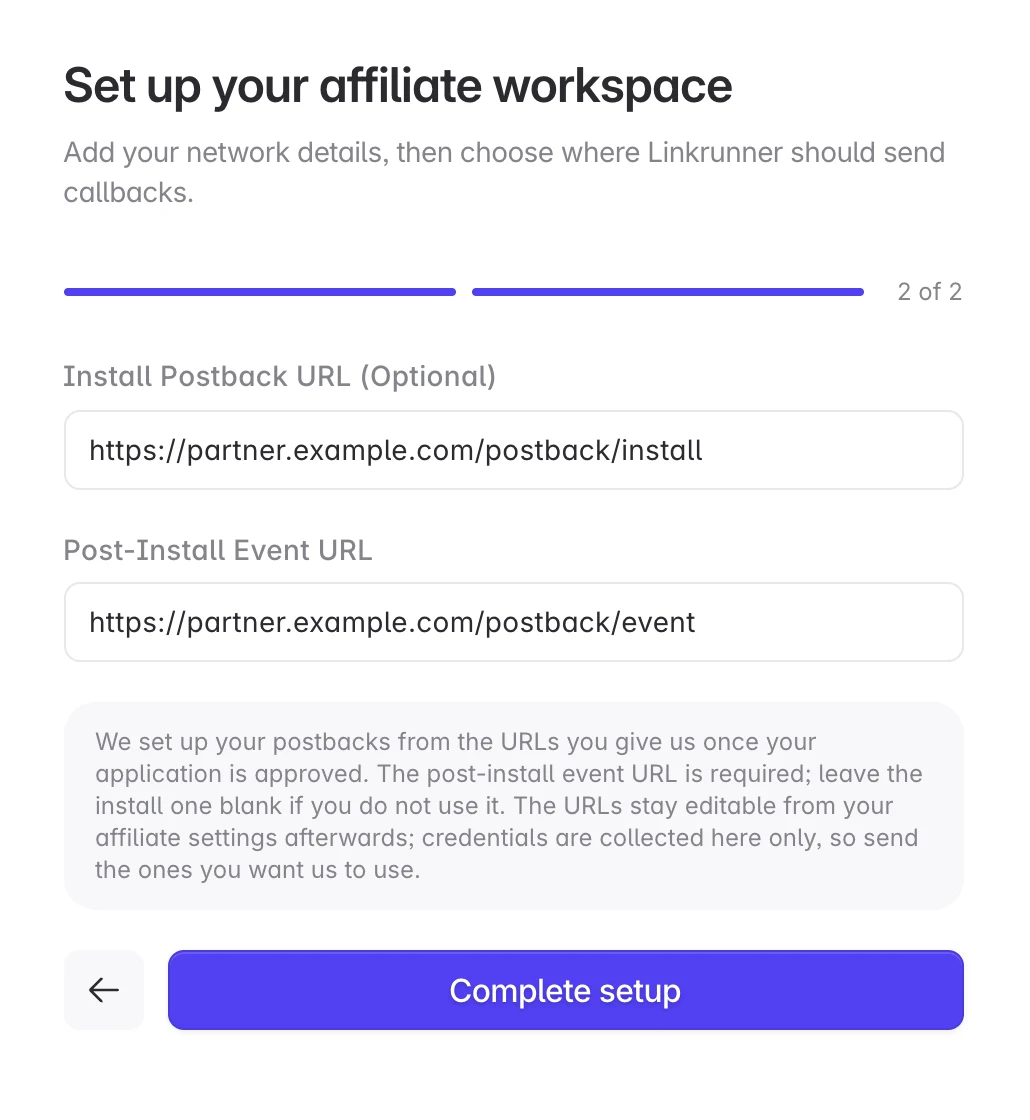
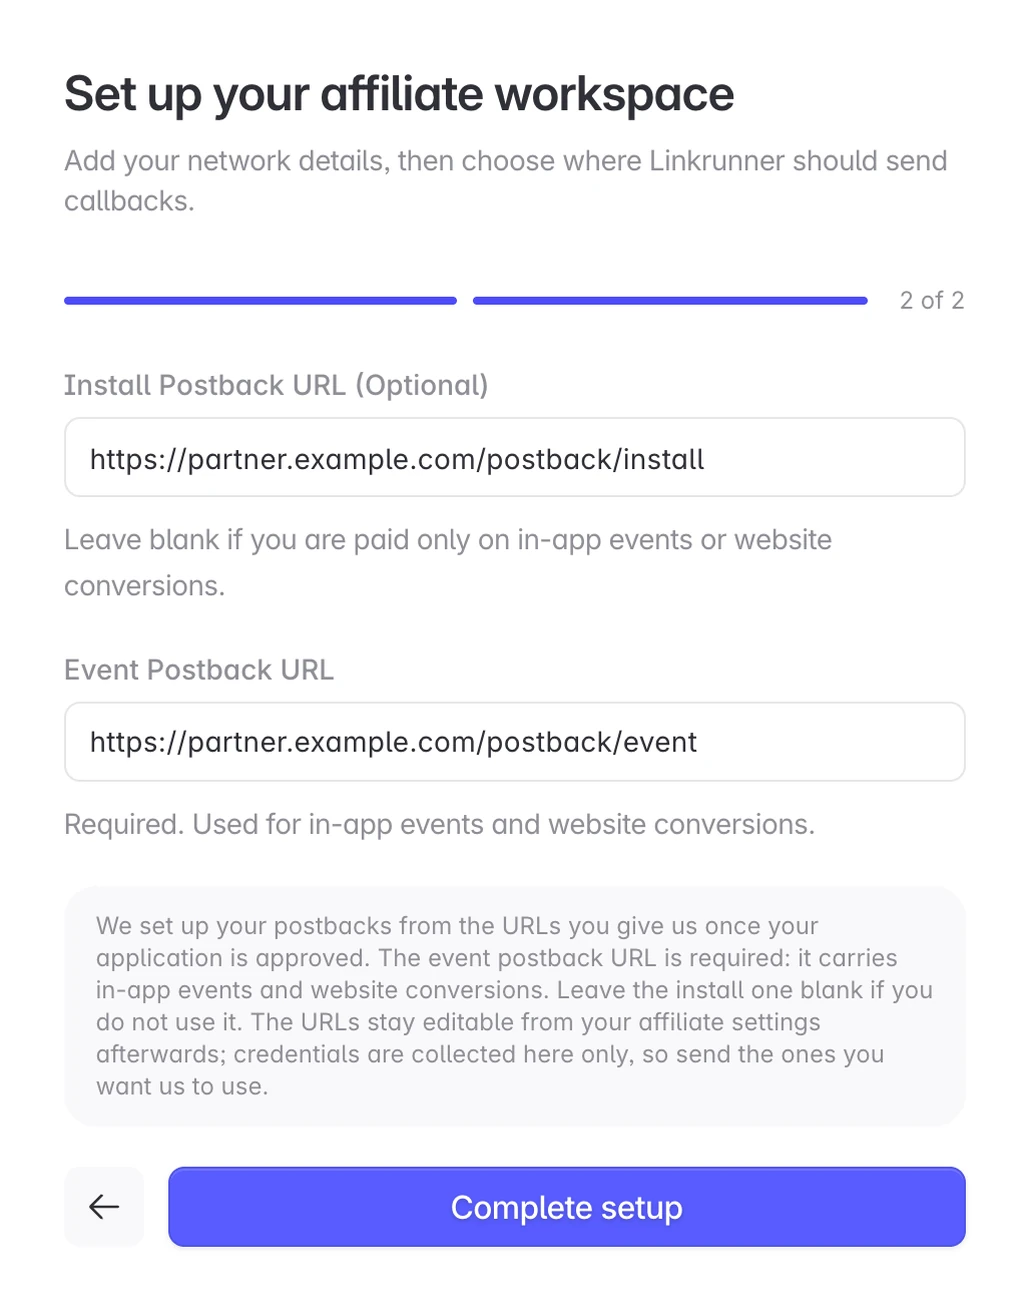
docs(affiliates): hidden sign-ups apply to web campaigns, current signup labels (LIN-3904)
Web Campaigns now follows the customer's Show sign-ups switch (LIN-4863), so the
partner page no longer promises sign-ups unconditionally, and the hide-sign-ups
page lists what a partner stops seeing on Web Campaigns.

The signup screenshots in create-account and add-affiliate-account are recaptured
from the current form, which says Event postback URL instead of Post-Install
Event URL.

diff --git a/affiliate-partners/web-campaigns.md b/affiliate-partners/web-campaigns.md
@@ -35,7 +35,7 @@ Keep the link exactly as it is, especially `utm_id` and `lr_click_id`. A convers
 
 ## What you see on Web Campaigns
 
-You see only the web campaigns credited to you, with their visitors, page views, sessions and sign-ups. Spend and revenue stay hidden, as they do for app campaigns. Custom events show only when the customer has shared them with you.
+You see only the web campaigns credited to you, with their visitors, page views and sessions. Sign-ups show unless the customer [hides them from you](/affiliate-partners/hide-sign-ups), which applies to app and web campaigns alike. Spend and revenue stay hidden, as they do for app campaigns. Custom events show only when the customer has shared them with you.
 
 ## Postbacks for website conversions
 

diff --git a/affiliate-partners/hide-sign-ups.md b/affiliate-partners/hide-sign-ups.md
@@ -18,6 +18,7 @@ When sign-ups are hidden, the partner doesn't see:
 
 - The **Sign-ups** and **Conversion** columns on its campaigns, ad sets, creatives and keywords
 - The **Sign Ups** figure, chart line and sign-up flow in the campaign details
+- On **Web Campaigns**, the **Sign-ups**, **Unique Users** and **Conversion** columns and overview cards, and the sign-up figures, chart line and flow in a web campaign's details
 
 It still sees clicks, installs and the [events you share](#share-events-with-a-partner) in its campaigns table. Disconnecting a partner resets this, so tell the partner before you connect it again. Postbacks don't change: if a partner receives sign-up postbacks today, it keeps receiving them.
 

diff --git a/agency-partners/add-affiliate-account.md b/agency-partners/add-affiliate-account.md
@@ -38,7 +38,7 @@ Upload your logo, enter your affiliate network name and description, then add th
 
 ![Affiliate setup, step 1: logo, network name, description and website](/images/agency-partners/add-affiliate-details.webp)
 
-![Affiliate setup, step 2: install postback URL and post-install event URL, then Complete setup](/images/agency-partners/add-affiliate-postbacks.webp)
+![Affiliate setup, step 2: install postback URL and event postback URL, then Complete setup](/images/agency-partners/add-affiliate-postbacks.webp)
 
 ## 3. Wait for approval
 
